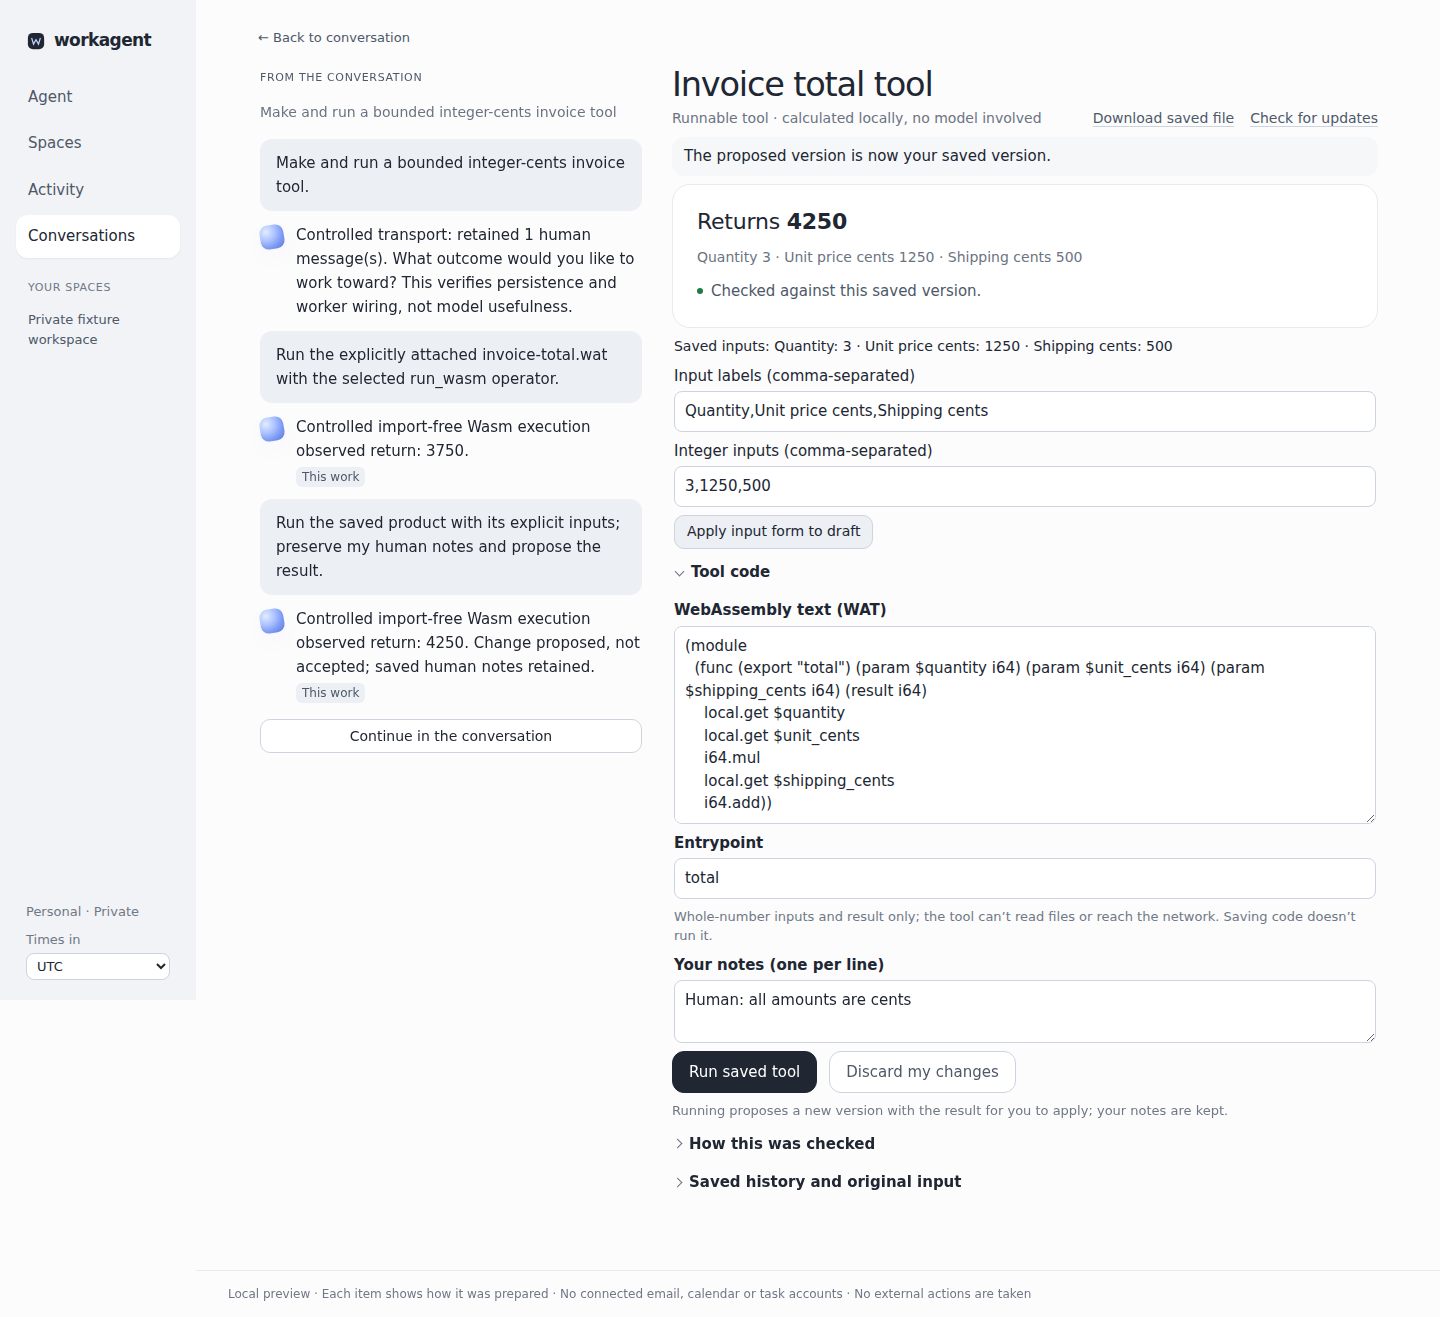
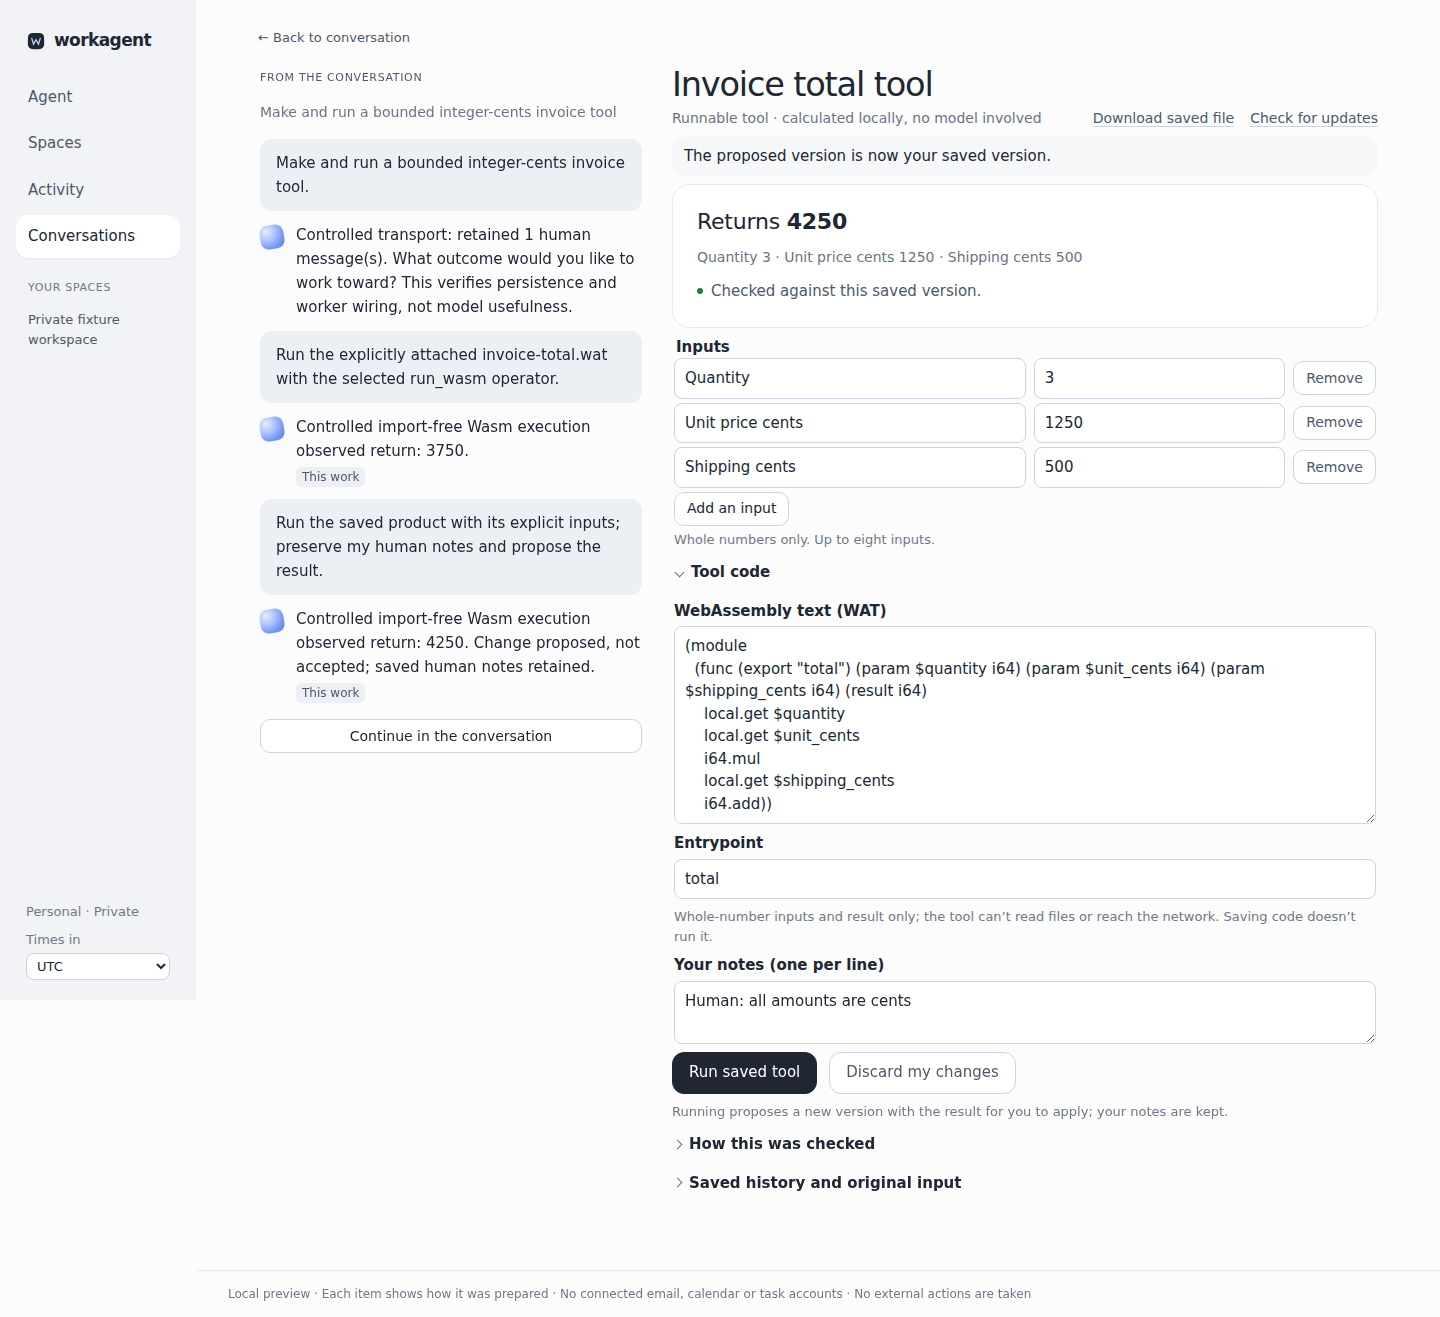
Edit tool inputs field by field instead of comma lists
Each input has its own name and whole-number value, with add and remove.
Valid edits go straight into the draft, so Save and Discard cover them;
invalid values stay on screen with their reason. Products scripts updated
one-to-one; refreshed tool captures.

Claude-Session: https://claude.ai/code/session_01DGkZiuRC1j4VkK4rNQ3c3D

diff --git a/web/src/app/conversations/[id]/artifacts/[artifactId]/page.tsx b/web/src/app/conversations/[id]/artifacts/[artifactId]/page.tsx
@@ -8,7 +8,7 @@ import { conversationApi } from "@/lib/client/real-api";
 import {
   currentObservation,
   resolveObservations,
-  formInputs,
+  fieldInputs,
   isProduct,
   productApi,
   type ProductBody,
@@ -833,6 +833,11 @@ function ResultCard({
     </section>
   );
 }
+/**
+ * The tool's inputs, one field each: a name and a whole-number value. Valid
+ * edits go straight into the draft (so Save and Discard cover them); an
+ * invalid edit stays on screen with its reason and never reaches the draft.
+ */
 function ToolInputs({
   body,
   update,
@@ -840,42 +845,80 @@ function ToolInputs({
   body: S["ToolBody"];
   update: (b: S["ToolBody"]) => void;
 }) {
-  const [labels, setLabels] = useState(
-    body.input_form.map((f) => f.label).join(","),
+  const [rows, setRows] = useState(() =>
+    body.input_form.map((f, i) => ({
+      name: f.name,
+      label: f.label,
+      value: String(body.arguments[i] ?? ""),
+    })),
   );
-  const [values, setValues] = useState(body.arguments.join(","));
   const [error, setError] = useState("");
+  function change(next: typeof rows) {
+    setRows(next);
+    try {
+      update({ ...body, ...fieldInputs(next) });
+      setError("");
+    } catch (e) {
+      setError(e instanceof Error ? e.message : "Check the inputs.");
+    }
+  }
   return (
-    <div className="stack">
-      <p className="small">
-        Saved inputs:{" "}
-        {body.input_form
-          .map((f, i) => `${f.label}: ${body.arguments[i]}`)
-          .join(" · ")}
-      </p>
-      <label className="field">
-        <span>Input labels (comma-separated)</span>
-        <input value={labels} onChange={(e) => setLabels(e.target.value)} />
-      </label>
-      <label className="field">
-        <span>Integer inputs (comma-separated)</span>
-        <input value={values} onChange={(e) => setValues(e.target.value)} />
-      </label>
-      <button
-        className="btn btn-sm tool-apply"
-        type="button"
-        onClick={() => {
-          try {
-            update({ ...body, ...formInputs(values, labels) });
-            setError("");
-          } catch (e) {
-            setError(e instanceof Error ? e.message : "Invalid inputs");
-          }
-        }}
-      >
-        Apply input form to draft
-      </button>
-      {error ? <p role="alert">{error}</p> : null}
-    </div>
+    <fieldset className="tool-inputs stack-sm">
+      <legend className="field-label">Inputs</legend>
+      {rows.map((r, i) => (
+        <div key={i} className="tool-input-row">
+          <input
+            aria-label={`Input ${i + 1} name`}
+            value={r.label}
+            placeholder="Name"
+            onChange={(e) =>
+              change(
+                rows.map((x, n) =>
+                  n === i ? { ...x, label: e.target.value } : x,
+                ),
+              )
+            }
+          />
+          <input
+            aria-label={r.label.trim() || `Input ${i + 1} value`}
+            inputMode="numeric"
+            value={r.value}
+            placeholder="0"
+            onChange={(e) =>
+              change(
+                rows.map((x, n) =>
+                  n === i ? { ...x, value: e.target.value } : x,
+                ),
+              )
+            }
+          />
+          <button
+            type="button"
+            className="btn btn-sm btn-quiet"
+            aria-label={`Remove input ${i + 1}`}
+            onClick={() => change(rows.filter((_, n) => n !== i))}
+          >
+            Remove
+          </button>
+        </div>
+      ))}
+      <div className="row">
+        <button
+          type="button"
+          className="btn btn-sm"
+          disabled={rows.length >= 8}
+          onClick={() => change([...rows, { name: "", label: "", value: "" }])}
+        >
+          Add an input
+        </button>
+      </div>
+      {error ? (
+        <p role="alert" className="small">
+          {error}
+        </p>
+      ) : (
+        <p className="hint">Whole numbers only. Up to eight inputs.</p>
+      )}
+    </fieldset>
   );
 }

diff --git a/web/src/lib/client/products.ts b/web/src/lib/client/products.ts
@@ -55,26 +55,46 @@ export async function resolveObservations(
 export function formInputs(values: string, labels: string) {
   const parts = values.trim() ? values.split(",").map((x) => x.trim()) : [];
   const names = labels.trim() ? labels.split(",").map((x) => x.trim()) : [];
-  if (
-    parts.length > 8 ||
-    parts.length !== names.length ||
-    parts.some((x) => !/^-?\d+$/.test(x)) ||
-    names.some((x) => !x || x.length > 120)
-  )
+  if (parts.length !== names.length)
     throw new Error(
       "Provide up to eight integer values and one label per value, separated by commas.",
     );
-  const arguments_ = parts.map(Number);
+  return fieldInputs(parts.map((value, i) => ({ label: names[i]!, value })));
+}
+/**
+ * One input per field, as people edit them. Same bounds as the contract: at
+ * most eight, whole numbers within ±1,000,000,000, non-empty labels. Existing
+ * field names are kept so a saved form keeps its identity.
+ */
+export function fieldInputs(
+  fields: { name?: string; label: string; value: string }[],
+) {
+  if (fields.length > 8)
+    throw new Error("A tool can take at most eight inputs.");
+  const labels = fields.map((f) => f.label.trim());
+  const values = fields.map((f) => f.value.trim());
+  if (labels.some((x) => !x || x.length > 120))
+    throw new Error("Give every input a name (up to 120 characters).");
+  if (values.some((x) => !/^-?\d+$/.test(x)))
+    throw new Error("Inputs must be whole numbers.");
+  const arguments_ = values.map(Number);
   if (
     arguments_.some((x) => !Number.isSafeInteger(x) || Math.abs(x) > 1000000000)
   )
     throw new Error(
-      "Inputs must be integers between -1000000000 and 1000000000.",
+      "Inputs must be whole numbers between -1000000000 and 1000000000.",
     );
+  const used = new Set<string>();
+  const names = fields.map((f, i) => {
+    let name = f.name && !used.has(f.name) ? f.name : `input_${i + 1}`;
+    for (let n = i + 1; used.has(name); n++) name = `input_${n + 1}`;
+    used.add(name);
+    return name;
+  });
   return {
     arguments: arguments_,
-    input_form: names.map((label, i) => ({
-      name: `input_${i + 1}`,
+    input_form: labels.map((label, i) => ({
+      name: names[i]!,
       label,
       type: "integer" as const,
       minimum: -1000000000 as const,

diff --git a/web/src/styles/products.css b/web/src/styles/products.css
@@ -225,3 +225,31 @@
   align-self: flex-start;
   width: auto;
 }
+.tool-inputs {
+  border: 0;
+  padding: 0;
+  margin: 0;
+  min-width: 0;
+}
+.tool-input-row {
+  display: grid;
+  grid-template-columns: minmax(0, 1.4fr) minmax(0, 1fr) auto;
+  gap: var(--sp-2);
+  align-items: center;
+}
+.tool-input-row input {
+  min-width: 0;
+  width: 100%;
+}
+@media (max-width: 480px) {
+  .tool-input-row {
+    grid-template-columns: minmax(0, 1fr) auto;
+  }
+  .tool-input-row input:first-child {
+    grid-column: 1 / -1;
+  }
+  .tool-input-row + .tool-input-row {
+    border-top: 1px solid var(--line);
+    padding-top: var(--sp-2);
+  }
+}

diff --git a/handoffs/frontend/PRODUCTS_FRONTEND.md b/handoffs/frontend/PRODUCTS_FRONTEND.md
@@ -100,8 +100,7 @@ Captures are in `evidence/products/` (desktop, 390 and 320 px).
 1. **Replying from beside the work.** The product page shows the
    conversation but sends you back to it to reply. That keeps the existing
    recovery-safe command handling.
-2. **Tool inputs.** They are edited as comma-separated labels and values,
-   then applied. A per-field form would be kinder.
+2. ~~**Tool inputs.**~~ Closed below: each input is now its own field.
 3. **Controlled replies.** Their text is still the backend's
    controlled-transport wording.
 4. **Operation choice.** Choosing CSV reconcile or Wasm is explicit; the
@@ -132,3 +131,35 @@ turn's DOM.
 | Fault regressions | PASS, 9/9 |
 | Reset checkpoint | PASS |
 | Conversation journey | PASS |
+
+## Per-field tool inputs
+
+Tool inputs used to be two comma-separated lists plus an "Apply" step. Each
+input is now its own row, with a name, a whole-number value and a Remove
+button, plus "Add an input" (up to eight).
+
+- Valid edits go straight into the draft, so "Save my edits" and "Discard my
+  changes" cover them like any other edit.
+- An invalid value stays on screen with its reason and never reaches the
+  draft.
+- Existing input names are kept; new ones get a unique `input_N`.
+- On phones the name sits above its value.
+
+Validation is the same as before: integers within ±1,000,000,000, at most
+eight inputs, and names up to 120 characters. `formInputs` now delegates to
+the new `fieldInputs`. The two products scripts were updated one-to-one:
+- the journey fills Quantity 3, Unit price cents 1250 and Shipping cents 500
+  field by field;
+- the DOM regression checks that Discard resets the rows and that a
+  non-integer is held back.
+
+| Check (fresh databases, zero provider calls) | Result |
+| --- | --- |
+| `pnpm check` | PASS, 80 tests |
+| Mock browser suite | PASS, 15/15 |
+| `products-review-regressions.mjs` | PASS, 8/8 |
+| `scripts/verify_general_integration.py` (products journey: tool 3750 → 4250; readback, outage, restart) | PASS |
+| Conversation journey | PASS |
+
+The refreshed tool captures (`03-tool-shipping`, `04-tool-390`,
+`04-tool-320`) are in `evidence/products/`.
